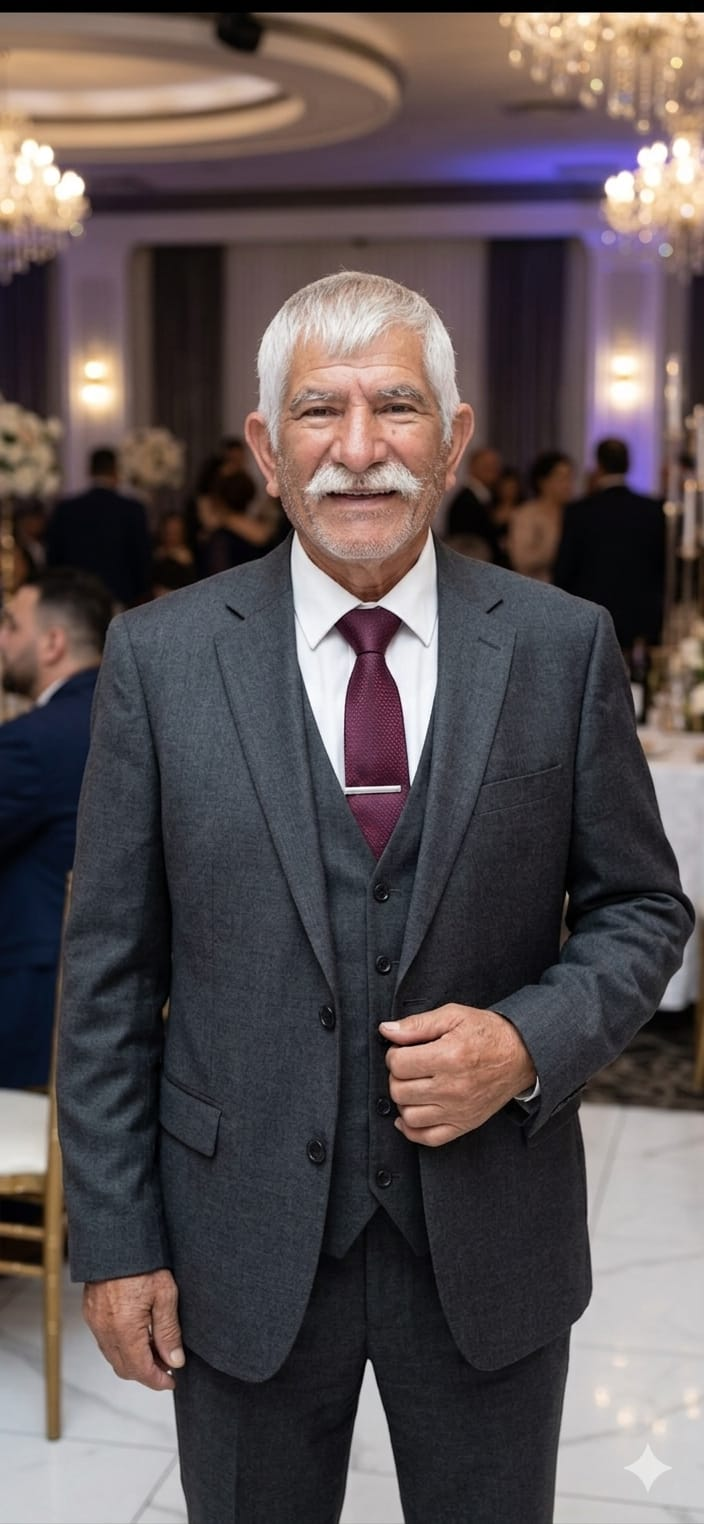
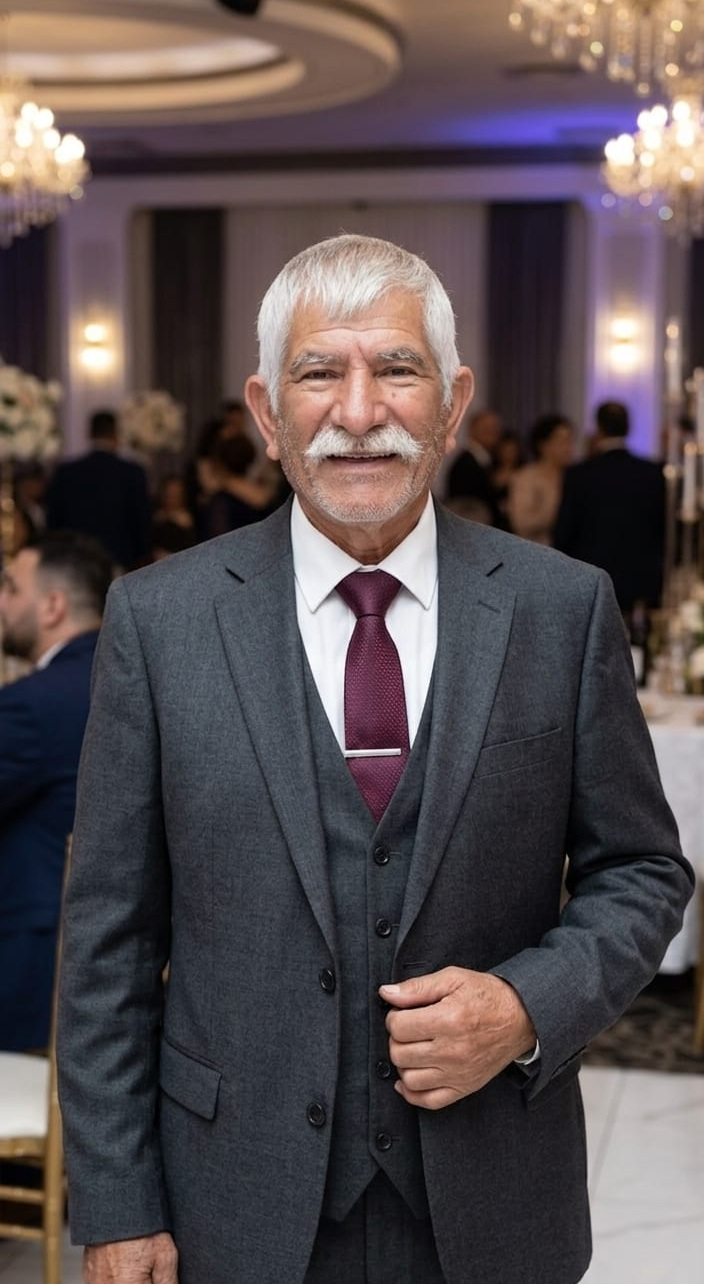
Add files via upload

diff --git a/css/style.css b/css/style.css
@@ -29,8 +29,16 @@ h1,h2{
 }
 
 .hero img{
-    width: 30%;
-    height: auto;
+    width:30%;
+    height:auto;
+}
+
+@media (max-width:768px){
+    .hero img{
+        width:100%;
+        height:100%;
+        object-fit:cover;
+    }
 }
 
 .overlay{
